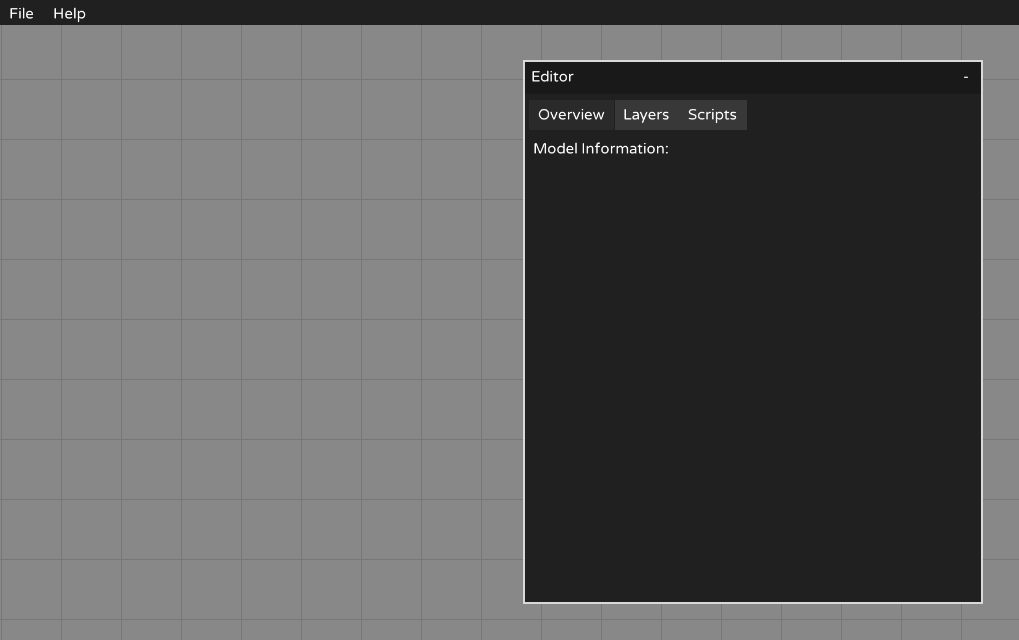
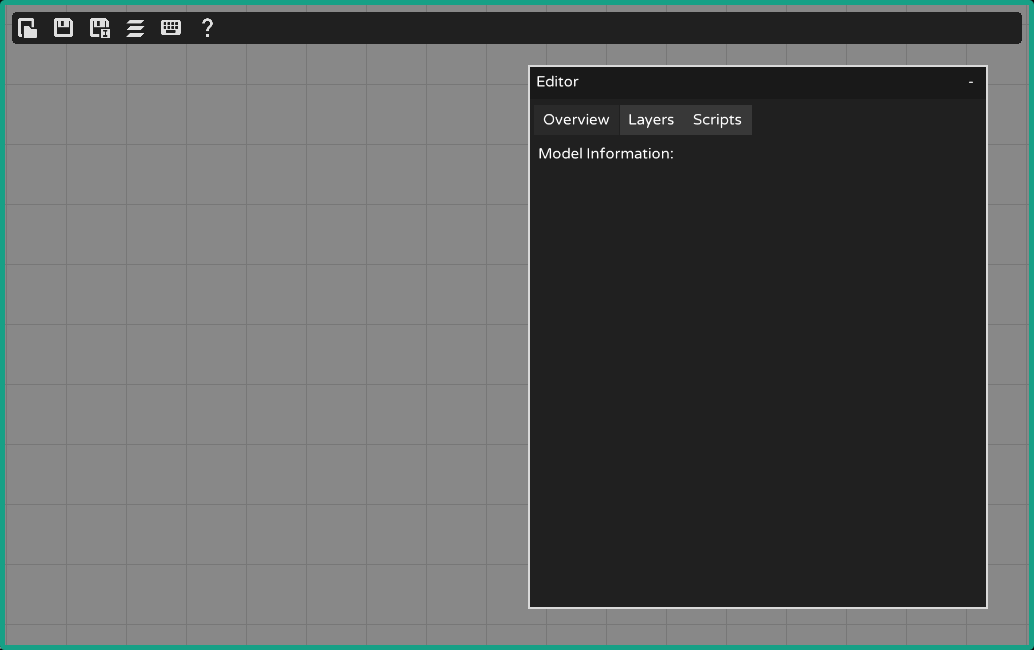
add panel and implement layer loading

Changed region(s): [[0.0, 0.0, 1.0, 1.0]]

diff --git a/src/c/main.c b/src/c/main.c
@@ -372,22 +372,6 @@ static enum un_action c_update(un_idle *task)
 
     context_welcome(&ctx, nk_ctx);
 
-    // enum filedialog2_state fdialog_state = fdialog_get_state(ctx.fdialog);
-    //
-    // if (fdialog_state == READ_READY ||
-    //     fdialog_state == WRITE_READY) {
-    //     if (ctx.loading_state == SELECTING_IMAGE) {
-    //         load_layer();
-    //     } else if (ctx.loading_state == WRITING_MODEL) {
-    //         write_model();
-    //     } else if (ctx.loading_state == LOADING_MODEL) {
-    //         load_model();
-    //     } else if (ctx.loading_state == SELECTING_SCRIPT) {
-    //         // load_script();
-    //     }
-    //     fdialog_reset(ctx.fdialog);
-    // }
-
     if (!ui_focused) {
         if (IsKeyPressed(KEY_SPACE)) {
             ctx.hide_ui = !ctx.hide_ui;
@@ -475,62 +459,6 @@ static enum un_action c_update(un_idle *task)
 //
 //         nk_layout_row_static(nk_ctx, 20, 40, 2);
 //
-//         if (nk_menu_begin_label(nk_ctx, "File", NK_TEXT_LEFT, nk_vec2(200, 200))) {
-//             nk_layout_row_dynamic(nk_ctx, 25, 1);
-//             if (nk_menu_item_label(nk_ctx, "Open", NK_TEXT_LEFT)) {
-//                 fdialog_open_file(ctx.fdialog);
-//                 fdialog_set_filter(ctx.fdialog, fdialog_open_filter);
-//                 fdialog_populate(ctx.fdialog);
-//                 fdialog_set_title(ctx.fdialog, "Load Model");
-//                 fdialog_show(ctx.fdialog);
-//
-//                 ctx.loading_state = LOADING_MODEL;
-//             }
-//
-//             if (nk_menu_item_label(nk_ctx, "Save", NK_TEXT_LEFT))
-//                 LOG_W("I don't do anything yet", 0);
-//
-//             if (nk_menu_item_label(nk_ctx, "Save As", NK_TEXT_LEFT)) {
-//                 fdialog_write_file(ctx.fdialog);
-//                 fdialog_set_filter(ctx.fdialog, NULL);
-//                 fdialog_populate(ctx.fdialog);
-//                 fdialog_set_title(ctx.fdialog, "Save Model As");
-//                 fdialog_show(ctx.fdialog);
-//
-//                 ctx.loading_state = WRITING_MODEL;
-//             }
-//
-//             if (ctx.mode == EDIT_MODE) {
-//                 nk_layout_row_dynamic(nk_ctx, 2, 1);
-//                 nk_rule_horizontal(nk_ctx, nk_ctx->style.window.border_color,
-//                     false);
-//                 nk_layout_row_dynamic(nk_ctx, 25, 1);
-//
-//                 if (nk_menu_item_label(nk_ctx, "Load Image", NK_TEXT_LEFT)) {
-//                     fdialog_open_files(ctx.fdialog);
-//                     fdialog_set_filter(ctx.fdialog, fdialog_open_filter);
-//                     fdialog_populate(ctx.fdialog);
-//                     fdialog_set_title(ctx.fdialog, "Open Image File");
-//                     fdialog_show(ctx.fdialog);
-//
-//                     ctx.loading_state = SELECTING_IMAGE;
-//                 }
-// #if 0
-//                 if (nk_menu_item_label(nk_ctx, "Load Script", NK_TEXT_LEFT)) {
-//                     if (ctx.editor.script_manager.to_import == NULL) {
-//                         ctx.dialog.open_for_write = false;
-//                         ctx.dialog.filter = script_filter;
-//                         filedialog_refresh(&ctx.dialog);
-//                         ctx.dialog.win.title = "Open Script";
-//                         filedialog_show(&ctx.dialog);
-//
-//                         ctx.loading_state = SELECTING_SCRIPT;
-//                     } else {
-//                         LOG_W("Script is being loaded!", 0);
-//                     }
-//                 }
-// #endif
-//
 //                 if (nk_menu_item_label(nk_ctx, "Quit", NK_TEXT_LEFT)) {
 //                     uv_stop((void*) ctx.loop);
 //                 }
@@ -556,63 +484,50 @@ static enum un_action c_update(un_idle *task)
 //     nk_end(nk_ctx);
 // }
 
-static void load_layer()
+void c_load_layer(char *path)
 {
     /* submit to queue */
     struct stat s;
 
-    char **selection = fdialog_get_selection(ctx.fdialog);
-
-    char **iter = selection;
-    for (;*iter != NULL;iter++) {
-        char *buffer = *iter;
-
-        if (stat(buffer, &s) == -1) {
-            perror("stat");
-            abort();
-        }
-
-        int fd = open(buffer, O_RDONLY);
-
-        LOG_I("Preparing layer to be loaded", NULL);
-
-        context_load_image(&ctx, strrchr(buffer, PATH_SEPARATOR) + 1, fd,
-            s.st_size, load_layer_file, after_layer_loaded);
-    }
-}
-
-static void load_model()
-{
-    char **selection = fdialog_get_selection(ctx.fdialog);
-    char *buffer = selection[0];
-
-    model_load(ctx.loop, &ctx.model, buffer);
-}
-
-static void write_model()
-{
-    LOG_I("%s", fdialog_get_selection(ctx.fdialog)[0]);
-    LOG_E("Save as not yet implemented!", 0);
-}
-
-static void load_script()
-{
-    /* submit to queue */
-    struct stat s;
-    char **selection = fdialog_get_selection(ctx.fdialog);
-    char *buffer = selection[0];
-
-    if (stat(buffer, &s) == -1) {
+    if (stat(path, &s) == -1) {
         perror("stat");
         abort();
     }
 
-    int fd = open(buffer, O_RDONLY);
+    int fd = open(path, O_RDONLY);
 
-    LOG_I("Preparing script of size %ld to be loaded", s.st_size);
+    LOG_I("Preparing layer to be loaded", NULL);
 
-    context_load_script(&ctx, strrchr(buffer, PATH_SEPARATOR) + 1, fd,
-        s.st_size, load_script_file, after_script_loaded);
+    context_load_image(&ctx, strrchr(path, PATH_SEPARATOR) + 1, fd,
+        s.st_size, load_layer_file, after_layer_loaded);
+}
+
+static void load_model()
+{
+    // char **selection = fdialog_get_selection(ctx.fdialog);
+    // char *buffer = selection[0];
+    //
+    // model_load(ctx.loop, &ctx.model, buffer);
+}
+
+static void load_script()
+{
+    // /* submit to queue */
+    // struct stat s;
+    // char **selection = fdialog_get_selection(ctx.fdialog);
+    // char *buffer = selection[0];
+    //
+    // if (stat(buffer, &s) == -1) {
+    //     perror("stat");
+    //     abort();
+    // }
+    //
+    // int fd = open(buffer, O_RDONLY);
+    //
+    // LOG_I("Preparing script of size %ld to be loaded", s.st_size);
+    //
+    // context_load_script(&ctx, strrchr(buffer, PATH_SEPARATOR) + 1, fd,
+    //     s.st_size, load_script_file, after_script_loaded);
 }
 
 static void load_layer_file(uv_work_t *req)

diff --git a/include/ui/filedialog.h b/include/ui/filedialog.h
@@ -1,35 +1,8 @@
 /* SPDX-License-Identifier: GPL-3.0-or-later */
 #pragma once
 
-#include <raylib-nuklear.h>
-
 #ifndef _WIN32
 #define PATH_SEPARATOR '/'
 #else
 #define PATH_SEPARATOR '\\'
 #endif
-
-enum filedialog2_state {
-    CLOSED,
-    BROWSING,
-    READ_READY,
-    WRITE_READY,
-};
-
-struct filedialog2;
-
-struct filedialog2 *fdialog_init();
-void fdialog_run(struct filedialog2 *dialog,
-    struct nk_context *ctx, bool *ui_focused);
-
-void fdialog_show(struct filedialog2 *dialog);
-enum filedialog2_state fdialog_get_state(struct filedialog2 *dialog);
-void fdialog_populate(struct filedialog2 *dialog);
-void fdialog_set_filter(struct filedialog2 *dialog, const char *filter);
-void fdialog_set_title(struct filedialog2 *dialog, const char *title);
-void fdialog_free(struct filedialog2 *dialog);
-void fdialog_open_file(struct filedialog2 *dialog);
-void fdialog_open_files(struct filedialog2 *dialog);
-void fdialog_write_file(struct filedialog2 *dialog);
-char **fdialog_get_selection(struct filedialog2 *dialog);
-void fdialog_reset(struct filedialog2 *dialog);
